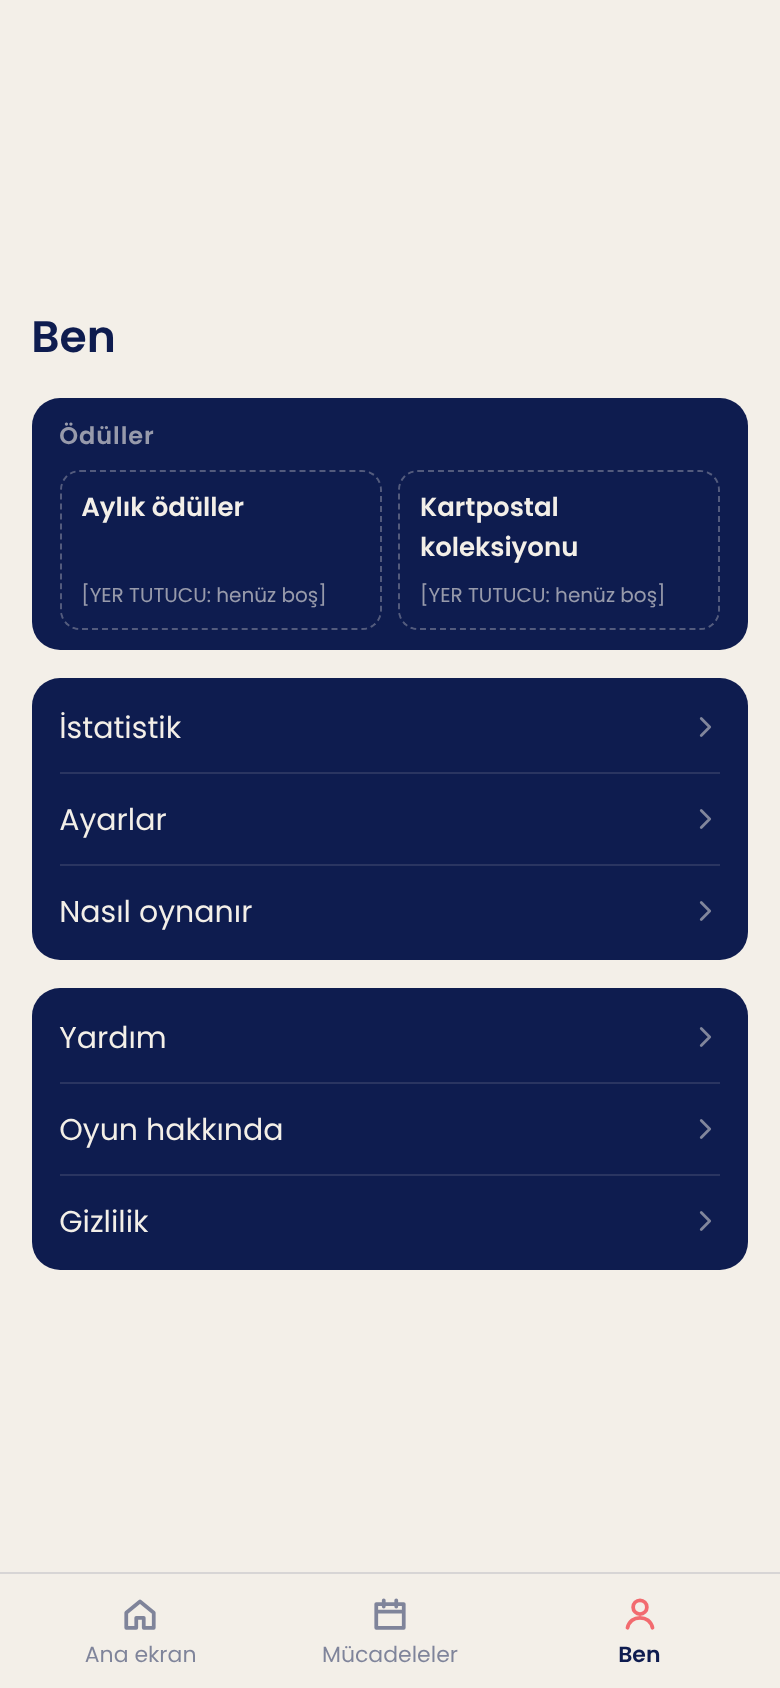
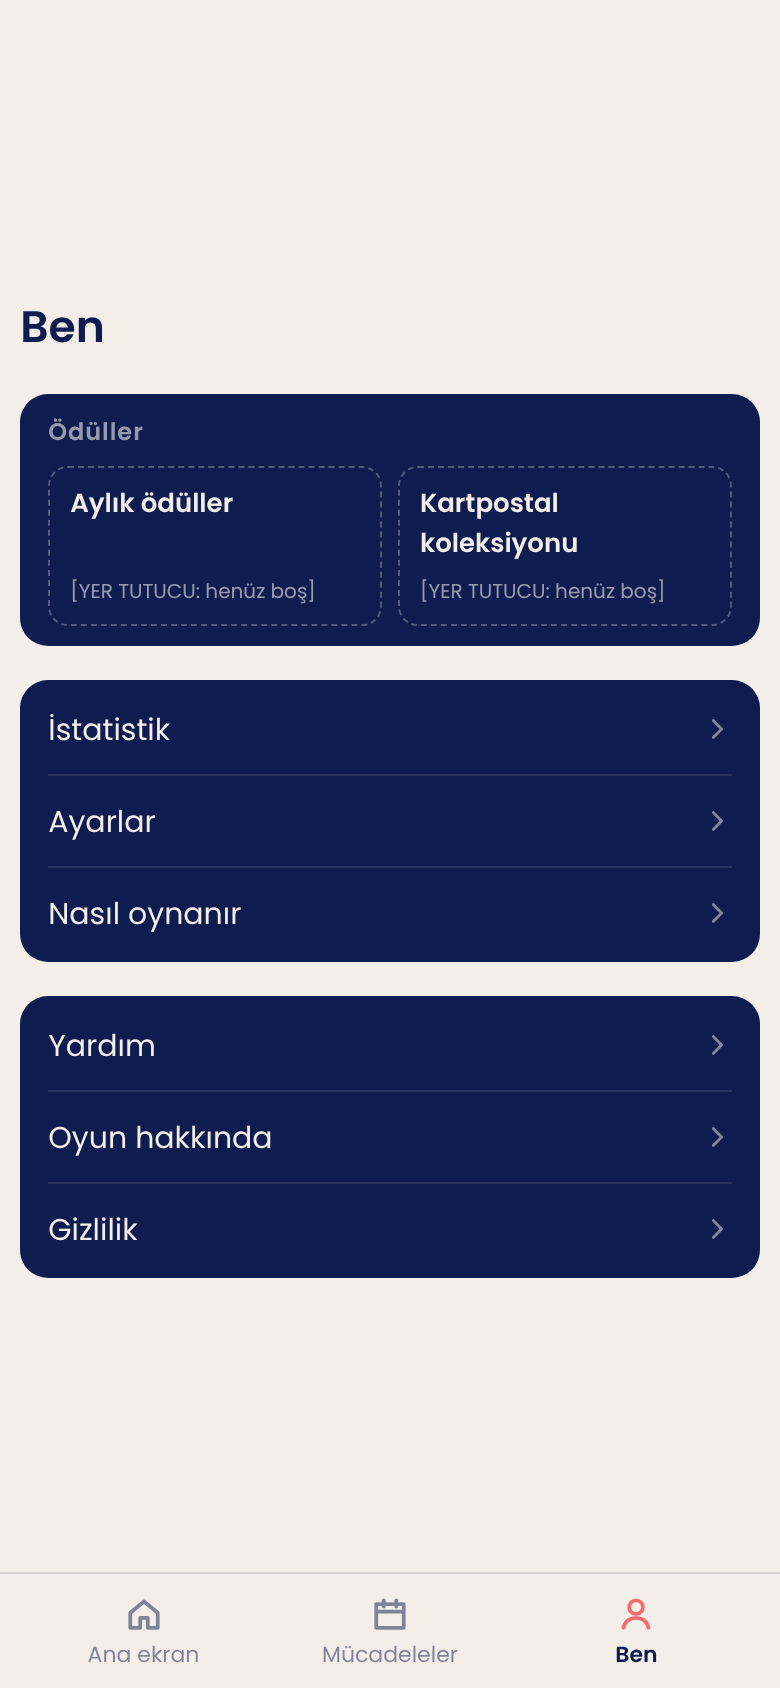
Kart oyunu: ince kenar, masa ekranı doldurur (Kemal 15 Kasım: "İnce kenar, masa ekranı doldursun")
- Bütün ekranlarda yalnız ince kenar payı (8-12 piksel; çentik ve alt çubuk güvenli alanı ayrıca).
- Masa: çerçeve kalktı; ekranın tamamını kaplar. Üstte bilgi (iki satır, büyük yazı), hemen altında
  kartlar (üstten başlar), en altta tamamlanan diziler, deste ve düğmeler. Kart alanı aradaki bütün
  yükseklik; kartlar ekran enini doldurur, artan pay sütun aralarına dağılır (iki yan eşit).
- Örnek ekrana göre (Kemal: "Bu uygun işte"; yalnız oran): kapalı kartlar sık, düğmeler başparmak
  boyunda, simge üstte yazı altta.
- Menü ekranları: içerik ortada, kenar ince; ana ekranda öğeler uzun telefonda büyür.
- Ekran görüntüleri (ana-*.png) ve liste.json; belge ve yol haritası.

Claude-Session: https://claude.ai/code/session_01CqmBomUoj7kxT4HXbmEom1

diff --git a/src/stil.css b/src/stil.css
@@ -231,26 +231,47 @@ button:disabled { cursor: default; }
 .kurallar { display: flex; flex-direction: column; gap: 10px; }
 .kural ul { margin: 0; padding-left: 18px; display: flex; flex-direction: column; gap: 5px; font-size: 13px; line-height: 1.4; }
 
-/* Kenar payı ve çerçeve (Kemal, 15 Kasım: "Ekranlara sayfa kenarı gibi bir şey belirleyelim";
-   seçtiği: "Çerçeve + içerik ortada toplansın"). Tek ortak değer, ekran boyuna göre ölçeklenir.
-   Menü ekranlarında içerik ortada, en çok --icerik-en genişliğinde. Masada yatay pay kartları
-   küçültmesin diye payın dörtte biri (okunurluk önce); masa çerçeveli tek blok, dikeyde ortada. */
-:root { --kenar: clamp(12px, 4vmin, 22px); --icerik-en: 400px; }
+/* Kenar payı (Kemal, 15 Kasım: "Bu inanılmaz fazla bir sayfa kenarı"; seçtiği: "İnce kenar, masa
+   ekranı doldursun"; örnek ekran için "Bu uygun işte"). Bütün ekranlarda yalnız ince bir pay:
+   parmak ekran kenarına değmesin; çentik ve alt çubuk güvenli alanı ayrıca eklenir. Menü
+   ekranlarında içerik ortada, yayılmadan; masada çerçeve yok, masa ekranın tamamını kaplar. */
+:root { --kenar: clamp(8px, 2.6vmin, 12px); --icerik-en: 440px; }
 
-.sekme-ekrani, .cerceve > .secim { padding: calc(var(--kenar) + env(safe-area-inset-top)) var(--kenar) var(--kenar); gap: 14px; justify-content: flex-start; }
+.sekme-ekrani, .cerceve > .secim { padding: calc(var(--kenar) + env(safe-area-inset-top)) calc(var(--kenar) + env(safe-area-inset-right)) var(--kenar) calc(var(--kenar) + env(safe-area-inset-left)); gap: clamp(10px, 2vh, 18px); justify-content: flex-start; }
 .sekme-ekrani > *, .cerceve > .secim > * { width: 100%; max-width: var(--icerik-en); align-self: center; flex: none; }
 /* Dikeyde ortalama: ilk ve son öğedeki otomatik pay; içerik uzunsa pay sıfırlanır, kaydırılır */
 .sekme-ekrani > :first-child, .cerceve > .secim > :first-child { margin-top: auto; }
 .sekme-ekrani > :last-child, .cerceve > .secim > :last-child { margin-bottom: auto; }
-.ana-ekran { justify-content: flex-start; gap: 22px; }
 .acilis { padding: calc(var(--kenar) + env(safe-area-inset-top)) var(--kenar) calc(var(--kenar) + env(safe-area-inset-bottom)); }
+/* Ana ekran: uzun telefonda öğeler büyür, ortada büyük boşluk kalmaz (kompakt) */
+.ana-ekran { justify-content: flex-start; gap: clamp(14px, 3.2vh, 34px); }
+.ana-ekran .ana-kart { min-height: clamp(84px, 13vh, 132px); padding: clamp(12px, 2vh, 18px); }
+.ana-ekran .ana-kart-ad { font-size: clamp(15px, 2.1vh, 18px); }
+.ana-ekran .ana-orta { gap: clamp(10px, 1.8vh, 18px); }
+.ana-ekran .ana-yelpaze { transform-origin: center bottom; }
+@media (min-height: 760px) { .ana-ekran .ana-yelpaze { transform: scale(1.25); margin-top: 14px; } }
+@media (min-height: 900px) { .ana-ekran .ana-yelpaze { transform: scale(1.4); margin-top: 24px; } }
+.ana-ekran .ana-en-iyi { width: 100%; padding: clamp(10px, 2vh, 18px) 24px; }
+.ana-ekran .ana-dugmeler .dugme { min-height: clamp(48px, 7.4vh, 64px); }
+.sekme-cubugu { padding-left: calc(var(--kenar) + env(safe-area-inset-left)); padding-right: calc(var(--kenar) + env(safe-area-inset-right)); }
 
 .ayarlar-katman { align-items: center; justify-content: center; padding: var(--kenar); }
-.ayarlar { max-width: var(--icerik-en); border-radius: 18px; padding: 16px; }
+.ayarlar { max-width: var(--icerik-en); border-radius: 18px; padding: 14px; }
 
-.masa { justify-content: center; padding: calc(var(--kenar) / 4 + env(safe-area-inset-top)) calc(var(--kenar) / 4) calc(var(--kenar) / 4 + env(safe-area-inset-bottom)); }
-.masa-blok { flex: none; max-height: 100%; display: flex; flex-direction: column; border: 1px solid rgba(243, 239, 232, 0.22); border-radius: 14px; padding: 8px 0 8px; }
-.masa-blok > .masa-bilgi { padding: 0 6px 8px; }
-.masa-blok > .masa-dugmeler { padding: 10px 4px 0; }
-.masa-blok > .masa-alt { padding: 8px 4px 0; }
-.oyun-alani { flex: none; transition: height 0.24s ease-out; }
+/* Masa: çerçeve yok, ekranın tamamı. Üstte bilgi satırı, hemen altında kartlar (üstten başlar),
+   en altta alt şerit ve düğmeler. */
+.masa { padding: calc(6px + env(safe-area-inset-top)) calc(var(--kenar) + env(safe-area-inset-right)) calc(var(--kenar) + env(safe-area-inset-bottom)) calc(var(--kenar) + env(safe-area-inset-left)); }
+.masa-blok { flex: 1; min-height: 0; display: flex; flex-direction: column; }
+.oyun-alani { flex: 1; min-height: 0; }
+/* Bilgi satırı iki satır: üstte oyun ve ayar düğmesi, altında süre, hamle, puan, aşama; okunaklı */
+.masa-blok > .masa-bilgi { flex-wrap: wrap; row-gap: 2px; padding: 0 0 8px; font-size: clamp(12.5px, 3.6vw, 15px); opacity: 1; }
+.masa-bilgi > .masa-bilgi-baslik { order: -2; flex: 1 1 calc(100% - 32px); text-align: left; font-size: 1.05em; opacity: 1; }
+.masa-bilgi > .ayar-dugmesi { order: -1; width: 32px; height: 32px; margin: -4px -6px -4px 0; }
+.masa-bilgi .ayar-dugmesi .simge { width: 22px; height: 22px; }
+.masa-bilgi > span:not(.masa-bilgi-baslik) { opacity: 0.8; }
+.masa-blok > .masa-alt { padding: 8px 0 0; }
+/* Düğmeler başparmak boyunda: simge üstte, yazı altta */
+.masa-blok > .masa-dugmeler { padding: 10px 0 0; gap: 8px; }
+.masa-dugmeler .dugme { position: relative; flex: 1 1 0; flex-direction: column; gap: 3px; min-height: 60px; padding: 8px 2px 6px; border-radius: 16px; font-size: clamp(12px, 3.3vw, 14px); }
+.masa-dugmeler .simge { width: 22px; height: 22px; }
+.masa-dugmeler .hak { position: absolute; top: 5px; right: 6px; }

diff --git a/src/ekranlar/KlondikeMasa.tsx b/src/ekranlar/KlondikeMasa.tsx
@@ -48,7 +48,6 @@ import { klondikeOzeti } from '../kart/puan';
 
 const ARALIK = 4; // sütunlar arası boşluk (piksel)
 const UST_ARALIK = 12; // üst sıra ile sütunlar arası boşluk
-const ALT_PAY = 0.35; // en uzun sütunun altında bırakılan boşluk (kart boyunun payı); dokunmak için
 const SURUKLEME_ESIGI = 8; // bu kadar kayınca dokunuş değil sürükleme sayılır
 const CIFT_DOKUNMA = 350; // iki dokunuş arası bu kadar kısaysa çift dokunuş (milisaniye)
 const UYARI_SURESI = 2600; // uyarı ekranda bu kadar kalır (milisaniye)
@@ -66,7 +65,7 @@ const UST_SIRA = {
 const BEKLENEN_KAPALI = 6;
 const BEKLENEN_ACIK = 8;
 const EN_COK_ACIK = 0.42;
-const EN_COK_KAPALI = 0.24;
+const EN_COK_KAPALI = 0.18; // kapalı kartlar sık (Kemal, 15 Kasım: örnek ekran)
 const EN_AZ_KAPALI = 0.08;
 
 interface Surukleme {
@@ -119,8 +118,8 @@ export function KlondikeMasa({ cekme, anaEkran, oyunSecimi, ayarlar, ayarAc, dev
   const [ipucu, setIpucu] = useState<{ ipucu: KlondikeIpucu; sayi: number } | null>(null);
   const ipucuSirasi = useRef(0); // arka arkaya basınca sıradaki ipucu
   const sonDokunus = useRef<{ id: string; zaman: number } | null>(null);
-  // Çerçeveli masa bloğu; kart alanının en çok yüksekliği ekrana göre (masaOrtak.tsx)
-  const { masaRef, blokRef, alanRef, alan, yukseklik } = useMasaBlogu(el);
+  // Masa ekranı doldurur; kart alanı bilgi satırı ile alt şerit arasındaki yükseklik (masaOrtak.tsx)
+  const { masaRef, blokRef, alanRef, alan } = useMasaBlogu();
 
   const kazandi = kazandiMi(masa);
   const { saniye, sifirla: sureyiSifirla } = useSure(kazandi, devam?.saniye);
@@ -174,7 +173,9 @@ export function KlondikeMasa({ cekme, anaEkran, oyunSecimi, ayarlar, ayarAc, dev
     enCokKapali: EN_COK_KAPALI,
   });
   const yelpazeAdim = kartEn * 0.32; // 3 kart çekmede açılan son üç kart yan yana kayar
-  const sutunX = (c: number) => c * (kartEn + ARALIK);
+  // Kart eni tam piksele yuvarlanınca artan pay sütun aralarına dağılır: sütunlar iki kenara eşit uzanır
+  const ara = Math.max(ARALIK, (alan.en - kartEn * KLONDIKE_SUTUN_SAYISI) / (KLONDIKE_SUTUN_SAYISI - 1));
+  const sutunX = (c: number) => c * (kartEn + ara);
   const ustSira = UST_SIRA[ayarlar.solEl ? 'sol' : 'sag'];
   const temelX = (no: number) => sutunX(ustSira.temel + no);
 
@@ -192,7 +193,6 @@ export function KlondikeMasa({ cekme, anaEkran, oyunSecimi, ayarlar, ayarAc, dev
     cizimler.push({ k, yer: ust ? { tur: 'acilan' } : null, x: sutunX(ustSira.acilan) + kay * yelpazeAdim, y: 0, z: i });
   });
   masa.deste.forEach((k, i) => cizimler.push({ k, yer: null, x: sutunX(ustSira.deste), y: 0, z: i }));
-  let enAlt = sutunUstu + kartBoy; // en uzun sütunun altı
   masa.sutunlar.forEach((s, no) => {
     const konum = sutunKonumlari(
       s.map((k) => k.acik),
@@ -204,15 +204,12 @@ export function KlondikeMasa({ cekme, anaEkran, oyunSecimi, ayarlar, ayarAc, dev
     s.forEach((k, sira) => {
       cizimler.push({ k, yer: { tur: 'sutun', no, sira }, x: sutunX(no), y: sutunUstu + konum[sira], z: sira });
     });
-    if (s.length) enAlt = Math.max(enAlt, sutunUstu + konum[s.length - 1] + kartBoy);
   });
-  // Kart alanı içerik kadar: en uzun sütunun altı ve dokunmak için küçük bir pay
-  const alanYuksekligi = yukseklik(enAlt + kartBoy * ALT_PAY);
 
   // Ekrandaki noktanın hedefi: üst sırada temel yığınlar, altında sütunlar
   const hedefBul = (istemciX: number, istemciY: number): Hedef | null => {
     const r = alanRef.current!.getBoundingClientRect();
-    const c = Math.min(KLONDIKE_SUTUN_SAYISI - 1, Math.max(0, Math.floor((istemciX - r.left + ARALIK / 2) / (kartEn + ARALIK))));
+    const c = Math.min(KLONDIKE_SUTUN_SAYISI - 1, Math.max(0, Math.floor((istemciX - r.left + ara / 2) / (kartEn + ara))));
     if (istemciY - r.top < kartBoy + UST_ARALIK / 2) {
       const t = c - ustSira.temel;
       return t >= 0 && t < TEMEL_TAKIMLARI.length ? { tur: 'temel' } : null;
@@ -384,7 +381,7 @@ export function KlondikeMasa({ cekme, anaEkran, oyunSecimi, ayarlar, ayarAc, dev
         ayarAc={ayarAc}
       />
 
-      <div className="oyun-alani" ref={alanRef} style={{ height: alanYuksekligi }} onPointerUp={alaniBirak}>
+      <div className="oyun-alani" ref={alanRef} onPointerUp={alaniBirak}>
         {TEMEL_TAKIMLARI.map((t, no) => (
           <div
             key={`temel-${t}`}

diff --git a/src/ekranlar/masaOrtak.tsx b/src/ekranlar/masaOrtak.tsx
@@ -30,46 +30,30 @@ export function sureYazisi(saniye: number): string {
   return sa > 0 ? `${sa}:${iki(dk)}:${iki(s)}` : `${dk}:${iki(s)}`;
 }
 
-// Masa bloğu (Kemal, 15 Kasım: "çerçeve + içerik ortada toplansın"). Üst bilgi satırı, kartlar,
-// alt şerit ve düğmeler çerçeveli tek blok; blok dikeyde ortada durur, yüksekliği içeriğe göre.
-// Kart boyu ve aralık (src/kart/duzen.ts) bloğun en çok alabileceği yüksekliğe göre hesaplanır:
-// ekran eksi kenar payı eksi bloğun öbür parçaları. Kartların alanı sütunlar uzadıkça büyür (elin
-// içinde küçülmez, kartlar oynamasın), en çok o yüksekliğe kadar; yeni elde baştan.
-export function useMasaBlogu(el: number) {
+// Masa (Kemal, 15 Kasım: "İnce kenar, masa ekranı doldursun"; örnek ekran için "Bu uygun işte").
+// Çerçeve yok; masa ekranın tamamını kaplar: üstte bilgi satırı, hemen altında kartlar, en altta
+// alt şerit ve düğmeler. Kartların alanı aradaki bütün yükseklik; kart boyu ve aralık
+// (src/kart/duzen.ts) bu alana göre hesaplanır. Kartlar üstten başlar, elin başında alt boş kalır.
+export function useMasaBlogu() {
   const masaRef = useRef<HTMLElement>(null);
   const blokRef = useRef<HTMLDivElement>(null);
   const alanRef = useRef<HTMLDivElement>(null);
   const [alan, setAlan] = useState({ en: 360, boy: 500 });
 
   useLayoutEffect(() => {
+    const a = alanRef.current;
+    if (!a) return;
     const olc = () => {
-      const m = masaRef.current;
-      const b = blokRef.current;
-      const a = alanRef.current;
-      if (!m || !b || !a) return;
-      const st = getComputedStyle(m);
-      const ic = m.clientHeight - parseFloat(st.paddingTop) - parseFloat(st.paddingBottom);
-      const digerleri = b.offsetHeight - a.offsetHeight; // bilgi satırı, alt şerit, düğmeler, çerçeve
-      const yeni = { en: a.clientWidth, boy: Math.max(120, Math.floor(ic - digerleri)) };
+      const yeni = { en: a.clientWidth, boy: Math.max(120, a.clientHeight) };
       setAlan((o) => (o.en === yeni.en && o.boy === yeni.boy ? o : yeni));
     };
     olc();
     const g = new ResizeObserver(olc);
-    if (masaRef.current) g.observe(masaRef.current);
-    if (blokRef.current) g.observe(blokRef.current);
+    g.observe(a);
     return () => g.disconnect();
   }, []);
 
-  const enCok = useRef({ anahtar: '', boy: 0 });
-  // Kartların alanının yüksekliği: içerik kadar, elin içinde küçülmez, en çok alan.boy.
-  // Yeni elde ve ekran boyu değişince (ör. telefon döndü) baştan ölçülür.
-  const yukseklik = (icerik: number) => {
-    const anahtar = `${el}-${alan.en}-${alan.boy}`;
-    if (enCok.current.anahtar !== anahtar) enCok.current = { anahtar, boy: 0 };
-    enCok.current.boy = Math.max(enCok.current.boy, Math.ceil(icerik));
-    return Math.min(alan.boy, enCok.current.boy);
-  };
-  return { masaRef, blokRef, alanRef, alan, yukseklik };
+  return { masaRef, blokRef, alanRef, alan };
 }
 
 // Süre: el başında başlar, el bitince durur; yeni elde sıfırlanır. Kaldığı yerden açılan elde
@@ -303,7 +287,8 @@ export function BilgiSatiri(o: {
   );
 }
 
-// Alt şerit (yol haritası 4): geri al, ipucu, yeni el, ana ekran. Simgeler kodla çizilir.
+// Alt şerit (yol haritası 4): geri al, ipucu, yeni el, ana ekran. Simgeler kodla çizilir; düğmeler
+// başparmak boyunda, simge üstte yazı altta (Kemal, 15 Kasım: örnek ekran).
 // "Ana ekran" (7. paket) eli bırakmadan masadan çıkar: el saklanır, ana ekranda "Oyuna devam et".
 // Sol el düzeninde (5. paket) sıra ayna gibi ters döner; deste de öbür yana geçer.
 export function MasaDugmeleri(o: {
@@ -333,9 +318,15 @@ export function MasaDugmeleri(o: {
         {m('masa.ipucu')}
       </button>
       <button className="dugme ince" onClick={o.yeniEl}>
+        <svg className="simge" viewBox="0 0 16 16" aria-hidden="true">
+          <path d="M13.5 8a5.5 5.5 0 1 1-1.6-3.9M12.5 1.5v3h-3" />
+        </svg>
         {m('masa.yeniEl')}
       </button>
       <button className="dugme ince" onClick={o.anaEkran}>
+        <svg className="simge" viewBox="0 0 16 16" aria-hidden="true">
+          <path d="M2.5 7.5 8 2.5l5.5 5M4 6.5v7h8v-7" />
+        </svg>
         {m('masa.anaEkran')}
       </button>
     </nav>

diff --git a/src/ekranlar/Masa.tsx b/src/ekranlar/Masa.tsx
@@ -42,13 +42,12 @@ import {
 // hamleyi geri getirir; her elde sınırlı hak var, bitince "reklam yerine" kutusu bir hak daha verir
 // (src/kart/geriAlHakki.ts). İpucu bir hamleyi kısa süre parlatır, arka arkaya basınca sıradaki gelir.
 
-const ARALIK = 2; // sütunlar arası boşluk (piksel)
-const ALT_PAY = 0.35; // en uzun sütunun altında bırakılan boşluk (kart boyunun payı); dokunmak için
+const ARALIK = 3; // sütunlar arası boşluk (piksel; Kemal, 15 Kasım: örnek ekran)
 // Kemal, 15 Kasım: kart boyu ve aralık ekran yüksekliğine göre (src/kart/duzen.ts). Kart uzun
 // ekranda en çok bu orana kadar uzar; aralık kartın bu paylarından fazla açılmaz.
 const EN_COK_ORAN = 1.6;
 const EN_COK_ACIK = 0.52;
-const EN_COK_KAPALI = 0.4;
+const EN_COK_KAPALI = 0.22; // kapalı kartlar sık, açıklar daha geniş (Kemal, 15 Kasım: örnek ekran)
 const EN_AZ_KAPALI = 0.1;
 // Ekrana göre aralık bu uzunluktaki sütun sıkışmadan sığacak kadar açılır (5 kapalı, 10 açık)
 const BEKLENEN_KAPALI = 5;
@@ -96,8 +95,8 @@ export function Masa({ renk, anaEkran, oyunSecimi, ayarlar, ayarAc, devam, basla
   const geriAlHak = useGeriAlHakki(devam?.hak);
   const [ipucu, setIpucu] = useState<{ ipucu: Ipucu; sayi: number } | null>(null);
   const ipucuSirasi = useRef(0); // arka arkaya basınca sıradaki ipucu
-  // Çerçeveli masa bloğu; kart alanının en çok yüksekliği ekrana göre (masaOrtak.tsx)
-  const { masaRef, blokRef, alanRef, alan, yukseklik } = useMasaBlogu(el);
+  // Masa ekranı doldurur; kart alanı bilgi satırı ile alt şerit arasındaki yükseklik (masaOrtak.tsx)
+  const { masaRef, blokRef, alanRef, alan } = useMasaBlogu();
 
   const kazandi = kazandiMi(masa);
   // Süre: el başında başlar, kazanınca durur
@@ -165,15 +164,13 @@ export function Masa({ renk, anaEkran, oyunSecimi, ayarlar, ayarAc, devam, basla
     ),
   );
 
-  // Kart alanı içerik kadar: en uzun sütunun altı ve dokunmak için küçük bir pay
-  const alanYuksekligi = yukseklik(
-    Math.max(...konumlar.map((k) => (k.length ? k[k.length - 1] : 0))) + kartBoy * (1 + ALT_PAY),
-  );
 
-  const sutunX = (c: number) => c * (kartEn + ARALIK);
+  // Kart eni tam piksele yuvarlanınca artan pay sütun aralarına dağılır: sütunlar iki kenara eşit uzanır
+  const ara = Math.max(ARALIK, (alan.en - kartEn * SPIDER_SUTUN_SAYISI) / (SPIDER_SUTUN_SAYISI - 1));
+  const sutunX = (c: number) => c * (kartEn + ara);
   const sutunBul = (istemciX: number) => {
     const r = alanRef.current!.getBoundingClientRect();
-    const c = Math.floor((istemciX - r.left + ARALIK / 2) / (kartEn + ARALIK));
+    const c = Math.floor((istemciX - r.left + ara / 2) / (kartEn + ara));
     return Math.min(SPIDER_SUTUN_SAYISI - 1, Math.max(0, c));
   };
 
@@ -317,7 +314,7 @@ export function Masa({ renk, anaEkran, oyunSecimi, ayarlar, ayarAc, devam, basla
         ayarAc={ayarAc}
       />
 
-      <div className="oyun-alani" ref={alanRef} style={{ height: alanYuksekligi }} onPointerUp={alaniBirak}>
+      <div className="oyun-alani" ref={alanRef} onPointerUp={alaniBirak}>
         {masa.sutunlar.map((_, c) => (
           <div
             key={`yuva-${c}`}

diff --git a/src/kart/duzen.ts b/src/kart/duzen.ts
@@ -1,8 +1,8 @@
 // Masa düzeni (Kemal, 15 Kasım: "kartlar büyüsün, aralık açılsın"). Kart boyu ve kapalı / açık
 // kart aralığı ekranın yüksekliğine göre ayarlanır; sütun uzadıkça aralık kendiliğinden sıkışır,
 // alt şeritle çakışmaz. Çizim yok, yalnız hesap; testleri testler/duzen.test.ts.
-// Alan yüksekliği (15 Kasım, çerçeveli masa): masa bloğunun en çok alabileceği kart alanı
-// (ekran eksi kenar payı eksi bilgi satırı, alt şerit ve düğmeler; src/ekranlar/masaOrtak.tsx).
+// Alan yüksekliği (15 Kasım, ince kenar): masa ekranı doldurur; kart alanı bilgi satırı ile alt şerit
+// arasındaki bütün yükseklik (src/ekranlar/masaOrtak.tsx).
 
 export const KART_ORANI = 1.42; // kartın boyu / eni (standart iskambil)
 

diff --git a/docs/tasarim-belgesi.md b/docs/tasarim-belgesi.md
@@ -23,7 +23,16 @@ reklam sıklığı sayısı yok: "veri yok".
 
 En yeni üstte.
 
-- **15 Kasım (kenar payı ve çerçeve):** Kemal: "Ekranlara sayfa kenarı gibi bir şey belirleyelim;
+- **15 Kasım (ince kenar, masa ekranı doldurur):** Çerçeveli ilk hâli görünce Kemal: "Bu inanılmaz
+  fazla bir sayfa kenarı, şekli çok fazla bu." Seçtiği: "İnce kenar, masa ekranı doldursun". Örnek bir
+  Spider ekranı için de "Bu uygun işte" dedi (yalnız oran ve yerleşim alındı; görseli, rengi, çuhası
+  alınmadı). Bütün ekranlarda yalnız ince pay (8-12 piksel, ekran boyuna göre; çentik ve alt çubuk
+  güvenli alanı ayrıca). Masada çerçeve yok; masa ekranın tamamını kaplar: üstte bilgi (oyun ve
+  ayar düğmesi; altında süre, hamle, puan, aşama), hemen altında kartlar (üstten başlar), en altta
+  tamamlanan diziler, deste ve düğmeler. Kartlar ekran enini doldurur (Spider 10, klasik 7 sütun);
+  kapalı kartlar sık, açıklar daha geniş. Düğmeler başparmak boyunda, simge üstte yazı altta. Elin
+  başında masanın ortası boş kalır (Kemal: uygun). Menü ekranlarında içerik ortada, ince kenarla.
+- **15 Kasım (kenar payı ve çerçeve; yerini "ince kenar" aldı):** Kemal: "Ekranlara sayfa kenarı gibi bir şey belirleyelim;
   ekranın ortası bomboş, her şey kenarlarda." Seçtiği: "Çerçeve + içerik ortada toplansın". Bütün
   ekranlarda tek ortak kenar payı (ekran boyuna göre ölçeklenir). Menü ekranlarında (ana ekran, Ben,
   Mücadeleler, oyun seçimi, ayarlar) içerik dikeyde ve yatayda ortada, genişliği sınırlı; alt
@@ -111,8 +120,8 @@ Sabitler (Kemal'in 14-11-2026 ve 15-11-2026 kararları):
   gibi). Oyun tarayıcıda yazılır ve denenir, sonra mağaza uygulamasına paketlenir (6. bölüm).
 - **Web sürümü:** **yalnız deneme** (Kemal, 15 Kasım gece). Kemal ve yakın çevresi bağlantıyla
   dener; **web'de reklam ve satın alma yok**. Herkese açık web oyunu yok.
-- **Kenar payı ve çerçeve** (Kemal, 15 Kasım): her ekranda ortak kenar payı; içerik ortada toplanır;
-  masa çerçeveli tek blok (2. bölüm, kararların geçmişi).
+- **Kenar payı** (Kemal, 15 Kasım): her ekranda yalnız ince pay; menü ekranlarında içerik ortada;
+  masa çerçevesiz, ekranın tamamını kaplar (2. bölüm, kararların geçmişi).
 - **Ekran yönü:** **dikey** (Kemal, 14-11-2026). Öbür oyunlardan farklı olarak telefon dik tutulur.
 - **Dil:** ilk sürüm **Türkçe ve İngilizce** (Kemal, 14 Kasım). Oyun açılırken telefonun diline
   göre başlar, ayarlardan değiştirilir (öneri; 5. paketle yapıldı: seçim anında bütün ekranı

diff --git a/docs/yol-haritasi.md b/docs/yol-haritasi.md
@@ -69,6 +69,11 @@ sonra "güzel mi". Kemal "şimdi" derse bir paket öne geçer.
   ortada, sütunlar uzayınca büyür. Kart boyu değişmedi. 320x640, 390x844 ve 430x932'de denendi
   (taşma yok); gerçek telefonda denenmedi. Ekran görüntüleri: `ana-8-spider-dagitim.png`,
   `ana-9-klasik-dagitim.png`.
+- 15 Kasım 2026 (aynı öneri, `ajans/ana-ekran`; Kemal: "İnce kenar, masa ekranı doldursun", örnek
+  ekran için "Bu uygun işte"): çerçeve kalktı, kenar payı inceldi (8-12 piksel); masa ekranın tamamını
+  kaplar, kartlar ekran enini doldurur, kapalı kartlar sık; bilgi satırı iki satır ve büyük yazı;
+  düğmeler başparmak boyunda. 320x640, 390x844 ve 430x932'de denendi (taşma yok); gerçek telefonda
+  denenmedi. Ekran görüntüleri: `ana-*.png` yenilendi.
 - Sırada: 4. paketten kalan kendiliğinden bitirme; sonra 8. paket (günlük mücadele).
 
 ## Paketler
